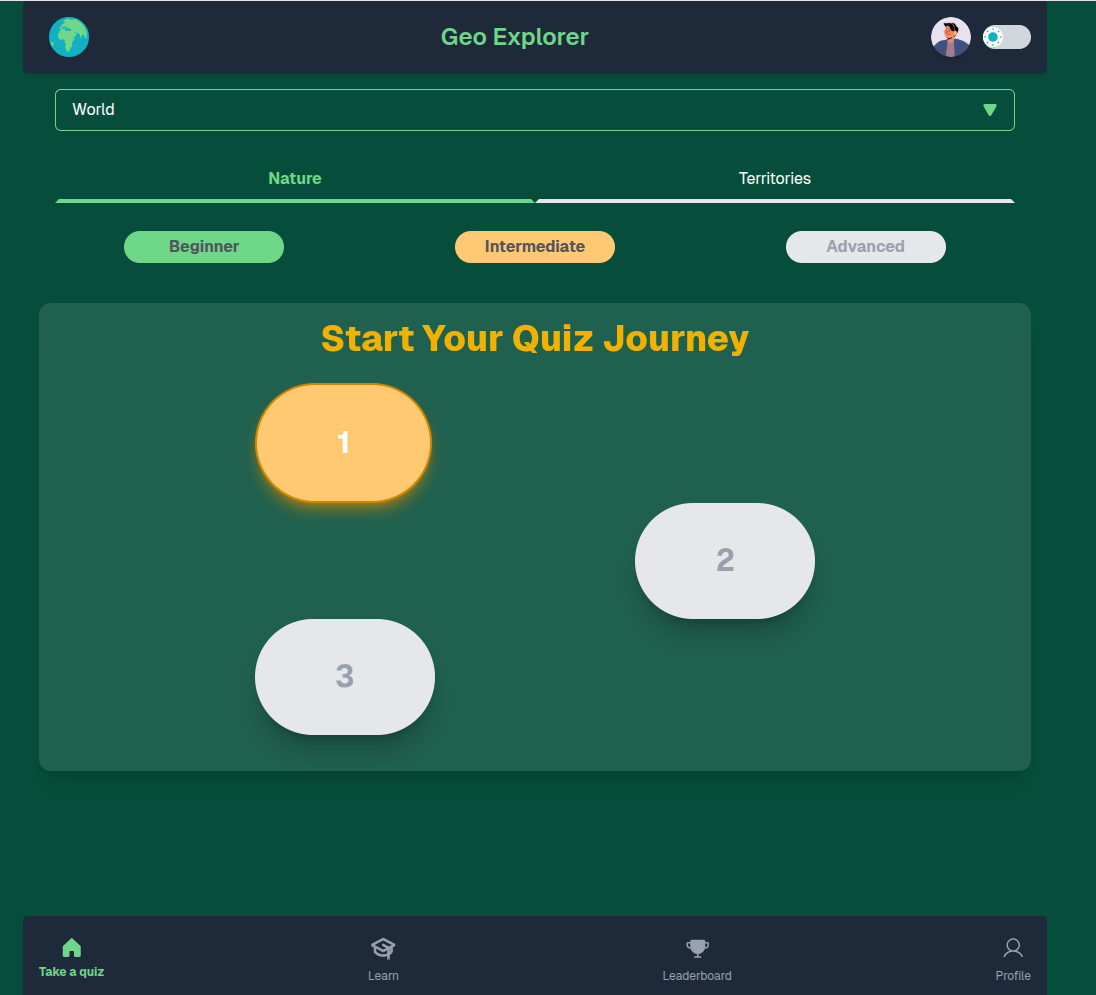
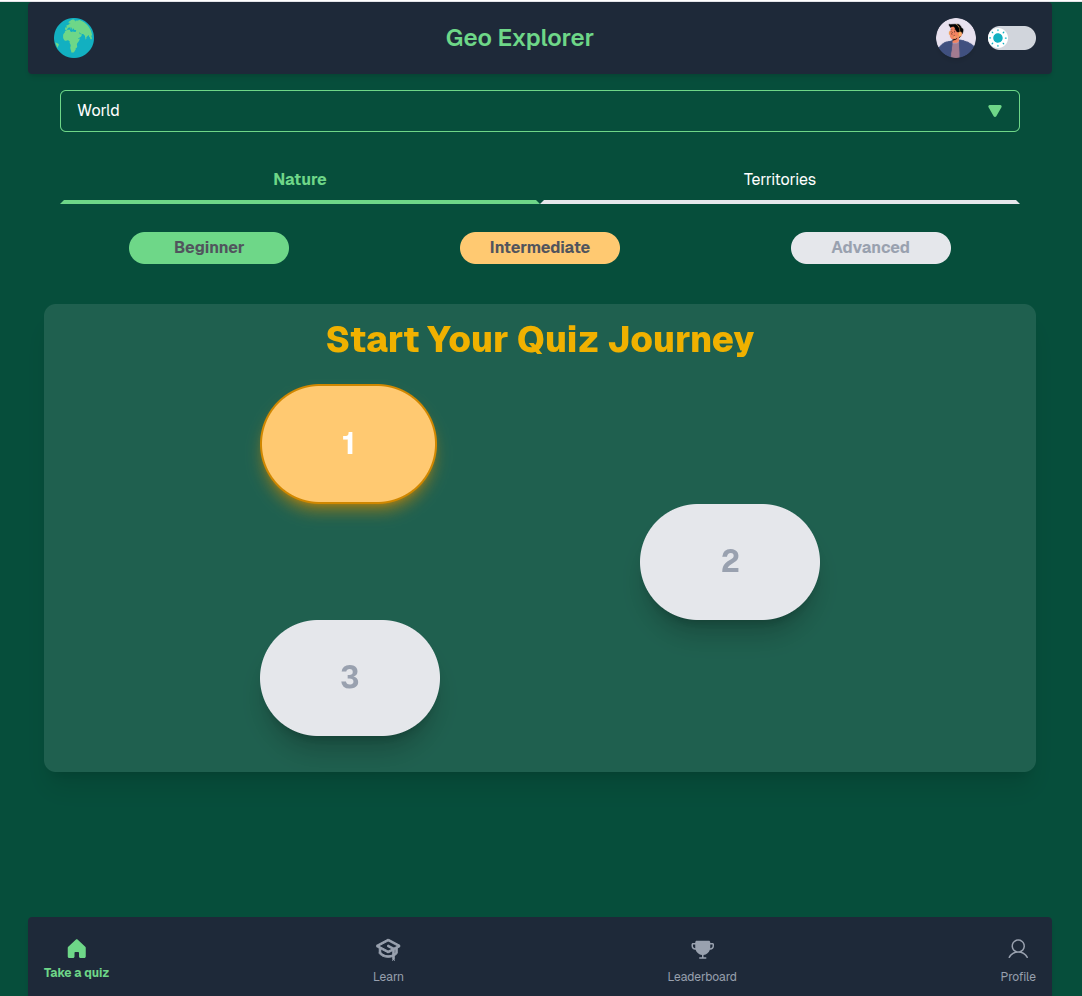
theme switch

diff --git a/index.html b/index.html
@@ -84,8 +84,21 @@
         <span class="project-title-button"
           ><h3 id="project-title">geo-explorer</h3>
           <button id="theme-switch" onclick="changeLightMode(event)">
+             <svg
+             
+              xmlns="http://www.w3.org/2000/svg"
+              height="18px"
+              viewBox="0 -960 960 960"
+              width="18px"
+              fill=""
+            >
+              <path
+               id="svg-image"
+                d="M480-280q-83 0-141.5-58.5T280-480q0-83 58.5-141.5T480-680q83 0 141.5 58.5T680-480q0 83-58.5 141.5T480-280ZM200-440H40v-80h160v80Zm720 0H760v-80h160v80ZM440-760v-160h80v160h-80Zm0 720v-160h80v160h-80ZM256-650l-101-97 57-59 96 100-52 56Zm492 496-97-101 53-55 101 97-57 59Zm-98-550 97-101 59 57-100 96-56-52ZM154-212l101-97 55 53-97 101-59-57Z"
+              />
+            </svg>
             <svg
-             class="sun"
+             class="moon"
               xmlns="http://www.w3.org/2000/svg"
               height="18px"
               viewBox="0 -960 960 960"
@@ -96,18 +109,7 @@
                 d="M480-120q-150 0-255-105T120-480q0-150 105-255t255-105q14 0 27.5 1t26.5 3q-41 29-65.5 75.5T444-660q0 90 63 153t153 63q55 0 101-24.5t75-65.5q2 13 3 26.5t1 27.5q0 150-105 255T480-120Z"
               />
             </svg>
-            <svg
-              class="moon"
-              xmlns="http://www.w3.org/2000/svg"
-              height="18px"
-              viewBox="0 -960 960 960"
-              width="18px"
-              fill=""
-            >
-              <path
-                d="M480-280q-83 0-141.5-58.5T280-480q0-83 58.5-141.5T480-680q83 0 141.5 58.5T680-480q0 83-58.5 141.5T480-280ZM200-440H40v-80h160v80Zm720 0H760v-80h160v80ZM440-760v-160h80v160h-80Zm0 720v-160h80v160h-80ZM256-650l-101-97 57-59 96 100-52 56Zm492 496-97-101 53-55 101 97-57 59Zm-98-550 97-101 59 57-100 96-56-52ZM154-212l101-97 55 53-97 101-59-57Z"
-              />
-            </svg>
+           
           </button>
         </span>
 

diff --git a/script.js b/script.js
@@ -3,8 +3,10 @@ let title = document.getElementById("project-title");
 let projectText = document.getElementById("project-text");
 let link = document.getElementById("text-link");
 let profileImage = document.getElementById("profile-image");
+let svgPath = document.getElementById("svg-image");
 
 let img = projectImage[0];
+let lightMode = true;
 
 function changeImage(event) {
   event.preventDefault();
@@ -45,6 +47,7 @@ function changeImage(event) {
 
 function changeLightMode(event) {
   event.preventDefault();
+  lightMode = !lightMode;
 
   let img = projectImage[0];
   if (img.src.endsWith("geo-explorer.png")) {
@@ -55,6 +58,18 @@ function changeLightMode(event) {
     img.src = "./img/gradient-dark.png";
   } else if (img.src.endsWith("gradient-dark.png")) {
     img.src = "./img/gradient-light.png";
+  }
+
+  if (!lightMode) {
+    svgPath.setAttribute(
+      "d",
+      "M480-120q-150 0-255-105T120-480q0-150 105-255t255-105q14 0 27.5 1t26.5 3q-41 29-65.5 75.5T444-660q0 90 63 153t153 63q55 0 101-24.5t75-65.5q2 13 3 26.5t1 27.5q0 150-105 255T480-120Z"
+    );
+  } else {
+    svgPath.setAttribute(
+      "d",
+      "M480-280q-83 0-141.5-58.5T280-480q0-83 58.5-141.5T480-680q83 0 141.5 58.5T680-480q0 83-58.5 141.5T480-280ZM200-440H40v-80h160v80Zm720 0H760v-80h160v80ZM440-760v-160h80v160h-80Zm0 720v-160h80v160h-80ZM256-650l-101-97 57-59 96 100-52 56Zm492 496-97-101 53-55 101 97-57 59Zm-98-550 97-101 59 57-100 96-56-52ZM154-212l101-97 55 53-97 101-59-57Z"
+    );
   }
 }
 

diff --git a/styles.css b/styles.css
@@ -274,7 +274,6 @@ img {
   max-height: 500px;
   object-fit: scale-down;
   transition: opacity 1.5s ease-in-out;
-  /* background-color: rgb(99, 46, 81, 0.8); */
   background-color: rgba(128, 85, 95, 0.7);
 }
 
